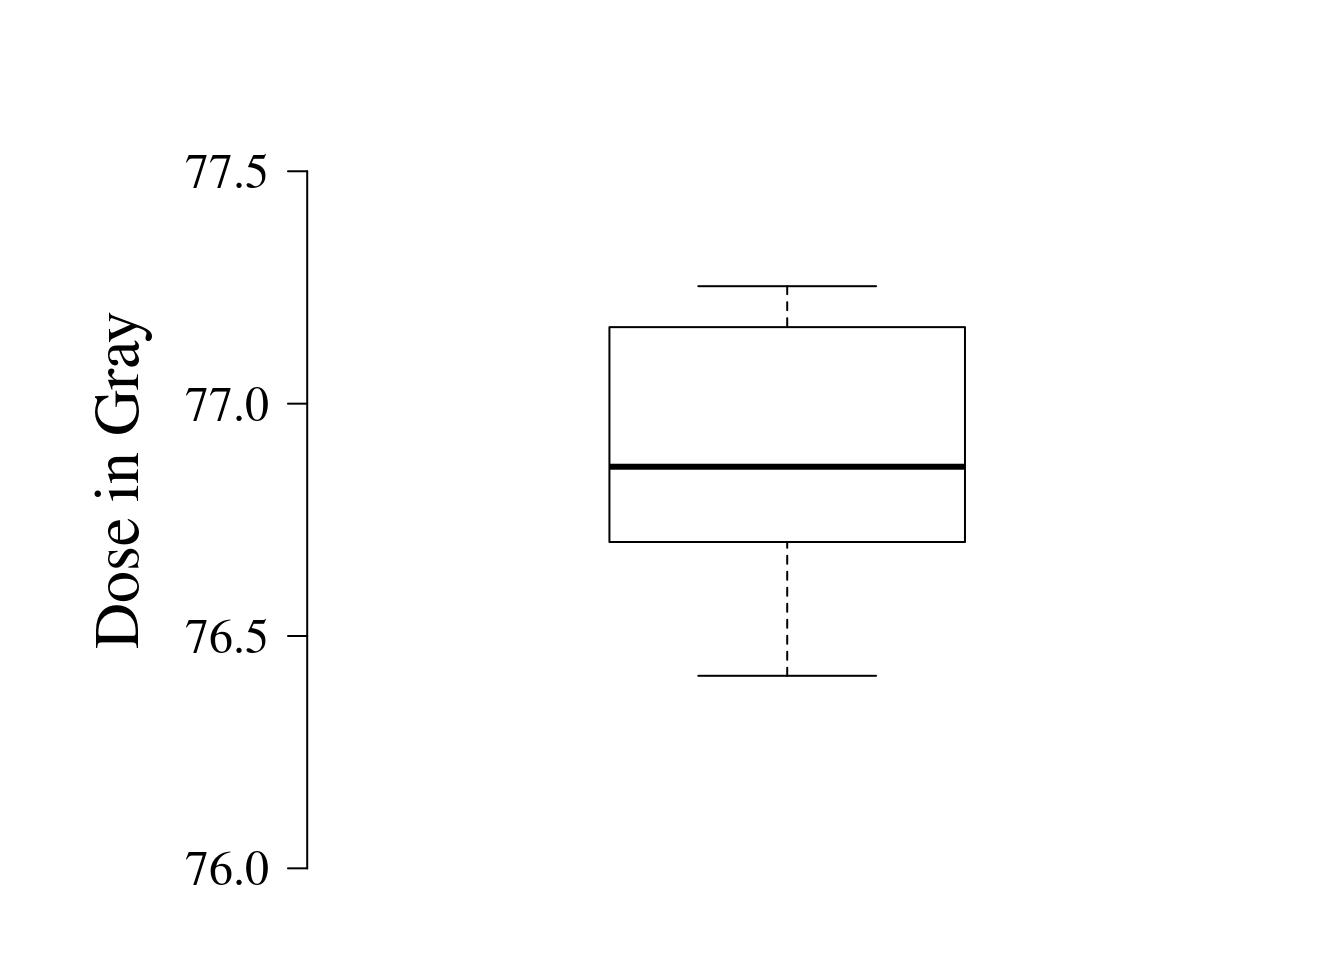
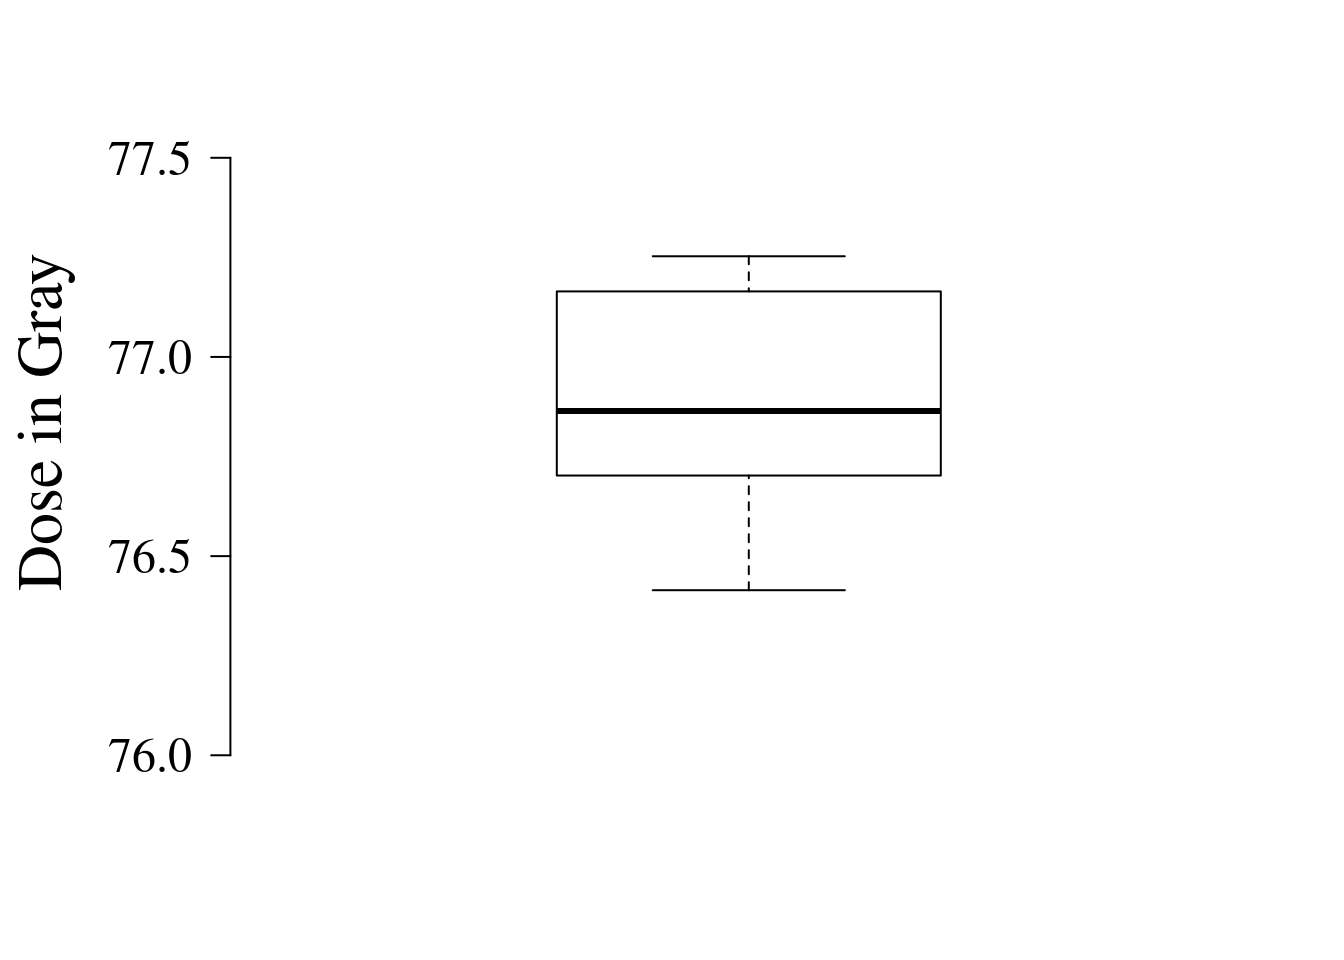
Build site.

diff --git a/docs/first-analysis.html b/docs/first-analysis.html
@@ -512,16 +512,16 @@ This reproducible <a href="http://rmarkdown.rstudio.com">R Markdown</a> analysis
 <div class="panel panel-default">
 <div class="panel-heading">
 <p class="panel-title">
-<a data-toggle="collapse" data-parent="#workflowr-checks" href="#strongRepositoryversionstrongahrefhttpsgithubcomdssrttnTesttree75b38c5793b16aa13979b76a3fd9af41ebf679fatargetblank75b38c5a"> <span class="glyphicon glyphicon-ok text-success" aria-hidden="true"></span> <strong>Repository version:</strong> <a href="https://github.com/dssrttn/Test/tree/75b38c5793b16aa13979b76a3fd9af41ebf679fa" target="_blank">75b38c5</a> </a>
+<a data-toggle="collapse" data-parent="#workflowr-checks" href="#strongRepositoryversionstrongahrefhttpsgithubcomdssrttnTesttree30f7f9ae721809290130aa07cc5013e197a1fc56targetblank30f7f9aa"> <span class="glyphicon glyphicon-ok text-success" aria-hidden="true"></span> <strong>Repository version:</strong> <a href="https://github.com/dssrttn/Test/tree/30f7f9ae721809290130aa07cc5013e197a1fc56" target="_blank">30f7f9a</a> </a>
 </p>
 </div>
[2 lines of base64/hex data omitted]
 <div class="panel-body">
 <p>
 Great! You are using Git for version control. Tracking code development and connecting the code version to the results is critical for reproducibility.
 </p>
 <p>
-The results in this page were generated with repository version <a href="https://github.com/dssrttn/Test/tree/75b38c5793b16aa13979b76a3fd9af41ebf679fa" target="_blank">75b38c5</a>. See the <em>Past versions</em> tab to see a history of the changes made to the R Markdown and HTML files.
+The results in this page were generated with repository version <a href="https://github.com/dssrttn/Test/tree/30f7f9ae721809290130aa07cc5013e197a1fc56" target="_blank">30f7f9a</a>. See the <em>Past versions</em> tab to see a history of the changes made to the R Markdown and HTML files.
 </p>
 <p>
 Note that you need to be careful to ensure that all relevant files for the analysis have been committed to Git prior to generating the results (you can use <code>wflow_publish</code> or <code>wflow_git_commit</code>). workflowr only checks the R Markdown file, but you know if there are other scripts or data files that it depends on. Below is the status of the Git repository when the results were generated:
@@ -585,6 +585,40 @@ Message
 </tr>
 </thead>
 <tbody>
+<tr>
+<td>
+Rmd
+</td>
+<td>
+<a href="https://github.com/dssrttn/Test/blob/30f7f9ae721809290130aa07cc5013e197a1fc56/analysis/first-analysis.Rmd" target="_blank">30f7f9a</a>
+</td>
+<td>
+Mein Vorname
+</td>
+<td>
+2020-07-02
+</td>
+<td>
+aufgeraeumt, show code
+</td>
+</tr>
+<tr>
+<td>
+html
+</td>
+<td>
+<a href="https://rawcdn.githack.com/dssrttn/Test/dfb048a5bf42bb20b6b62c1df98adb698af07e7b/docs/first-analysis.html" target="_blank">dfb048a</a>
+</td>
+<td>
+Mein Vorname
+</td>
+<td>
+2020-07-02
+</td>
+<td>
+Build site.
+</td>
+</tr>
 <tr>
 <td>
 Rmd
@@ -1711,7 +1745,7 @@ min &lt;-min(DIL_mean_boxplot$Mittelwert)
 
 par(bty=&quot;n&quot;) # keinen Rahmen
 par(family=&quot;serif&quot;) # Schriftart
-par(mar = c(2, 8, 2, 2)) # Abstände um den Plot. 2. Position y-Achse
+par(mar = c(5, 6, 2, 2)) # Abstände um den Plot. 2. Position y-Achse
 par(mgp=c(4.2,1,0)) # mpg: Abstand Label zu Achse
 boxplot(DIL_mean_boxplot$Mittelwert, 
         ylab= &quot;Dose in Gray&quot;, #y-Achse-Beschriftung  
@@ -1720,12 +1754,49 @@ boxplot(DIL_mean_boxplot$Mittelwert,
         las = 2, # horizontale Markierung der Tick-Beschriftungen
          ylim=c(min(0.995*min), max(1.005*max)), # y-Achse range
         cex.lab = 2, # Größe Label-Beschriftung
-        cex.axis = 1.5 # Größe Achsenbeschriftungen
-        #mgp=c(3,1,0) # mpg: Abstand Label zu Achse
+        cex.axis = 1.5, # Größe Achsenbeschriftungen
+        mgp=c(2.5,0.2,0) # mpg: Abstand Label zu Achse
      # , xpd = TRUE
       #labels = FALSE
         )</code></pre>
 <p><img src="figure/first-analysis.Rmd/DIL%20Boxplot-1.png" width="672" style="display: block; margin: auto;" /></p>
+<p>
+<button type="button" class="btn btn-default btn-xs btn-workflowr btn-workflowr-fig" data-toggle="collapse" data-target="#fig-no-spaces-DIL-Boxplot-1">
+Past versions of “DIL Boxplot-1.png”
+</button>
+</p>
+<div id="fig-no-spaces-DIL-Boxplot-1" class="collapse">
+<div class="table-responsive">
+<table class="table table-condensed table-hover">
+<thead>
+<tr>
+<th>
+Version
+</th>
+<th>
+Author
+</th>
+<th>
+Date
+</th>
+</tr>
+</thead>
+<tbody>
+<tr>
+<td>
+<a href="https://github.com/dssrttn/Test/blob/dfb048a5bf42bb20b6b62c1df98adb698af07e7b/docs/figure/first-analysis.Rmd/DIL Boxplot-1.png" target="_blank">dfb048a</a>
+</td>
+<td>
+Mein Vorname
+</td>
+<td>
+2020-07-02
+</td>
+</tr>
+</tbody>
+</table>
+</div>
+</div>
 </div>
 <div id="dil-boost-mean---histogram-with-density-curve" class="section level3">
 <h3>DIL boost mean - histogram with density curve</h3>
@@ -1739,6 +1810,43 @@ hist(DIL_mean_boxplot$Mittelwert,
 rug(jitter(DIL_mean_boxplot$Mittelwert))
 lines(density(DIL_mean_boxplot$Mittelwert), col=&quot;black&quot;, lwd=2)</code></pre>
 <p><img src="figure/first-analysis.Rmd/DIL%20Histogram-1.png" width="672" style="display: block; margin: auto;" /></p>
+<p>
+<button type="button" class="btn btn-default btn-xs btn-workflowr btn-workflowr-fig" data-toggle="collapse" data-target="#fig-no-spaces-DIL-Histogram-1">
+Past versions of “DIL Histogram-1.png”
+</button>
+</p>
+<div id="fig-no-spaces-DIL-Histogram-1" class="collapse">
+<div class="table-responsive">
+<table class="table table-condensed table-hover">
+<thead>
+<tr>
+<th>
+Version
+</th>
+<th>
+Author
+</th>
+<th>
+Date
+</th>
+</tr>
+</thead>
+<tbody>
+<tr>
+<td>
+<a href="https://github.com/dssrttn/Test/blob/dfb048a5bf42bb20b6b62c1df98adb698af07e7b/docs/figure/first-analysis.Rmd/DIL Histogram-1.png" target="_blank">dfb048a</a>
+</td>
+<td>
+Mein Vorname
+</td>
+<td>
+2020-07-02
+</td>
+</tr>
+</tbody>
+</table>
+</div>
+</div>
 <pre class="r"><code>#cex.lab=1.5, cex.axis=1.5</code></pre>
 <br>
 <p>
